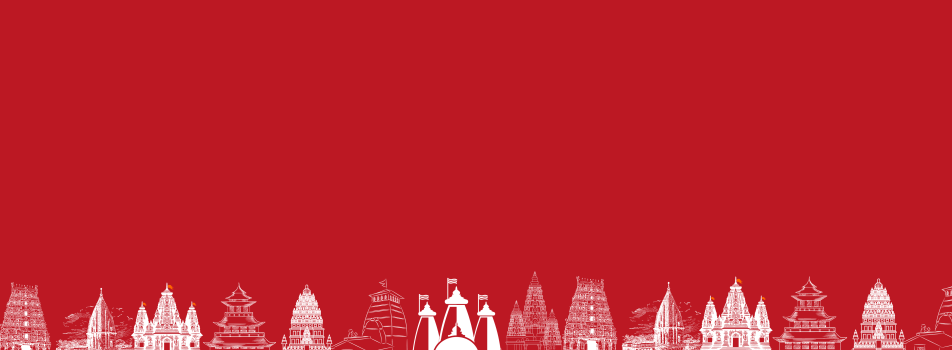
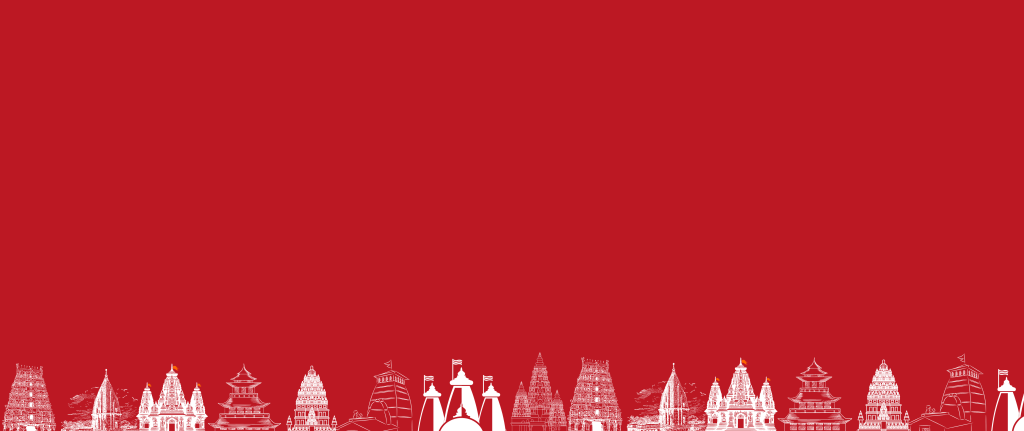
update

Changed region(s): [[0.0, 0.8, 1.0, 1.0]]

diff --git a/public/front-assets/css/main.css b/public/front-assets/css/main.css
@@ -13767,12 +13767,12 @@ p.blockquote:after {
 
 }
 .footer{
- /* background-color: #B90B0B; */
- background-image: url('../../front-assets/img/footer.png');
- /* background-repeat: no-repeat; */
- background-size: cover;
- background-position: center;
- /* height: 499px; */
+  background-image: url(../img/footer.png);
+  height: 431px;
+  /* background-repeat: no-repeat; */
+  /* background-size: cover; */
+  background-position: top left;
+  width: 100%;
 }
 .omm-img {
   height: 174px;

diff --git a/resources/views/user/layouts/components/front-footer.blade.php b/resources/views/user/layouts/components/front-footer.blade.php
@@ -7,10 +7,10 @@
 
             <div class="mt-30">
             <p style="color:#fff">  33Crores Pooja Products Pvt Ltd ,<br> 403, 4th Floor, O-Hub<br>
-IDCO Sez Infocity,<br>
-Bhubaneswar 751024,<br>
-Odisha , Bharat<br>
-<br></p>
+            IDCO Sez Infocity,<br>
+            Bhubaneswar 751024,<br>
+            Odisha , Bharat<br>
+            <br></p>
             </div>
 
            
@@ -55,7 +55,7 @@ Odisha , Bharat<br>
         </div>
       </div>
 
-      <div class="py-20 border-top-white-15">
+      {{-- <div class="py-20 border-top-white-15">
         <div class="row justify-between items-center y-gap-10">
           <div class="col-auto">
             <div class="row x-gap-30 y-gap-10">
@@ -70,6 +70,6 @@ Odisha , Bharat<br>
             </div>
           </div>
         </div>
-      </div>
+      </div> --}}
     </div>
   </footer>
